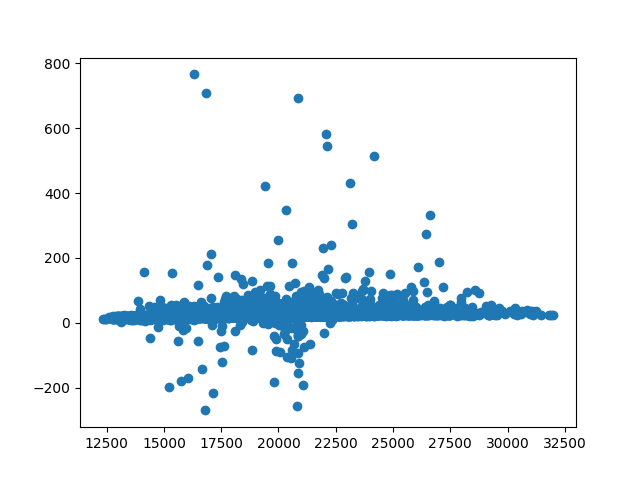
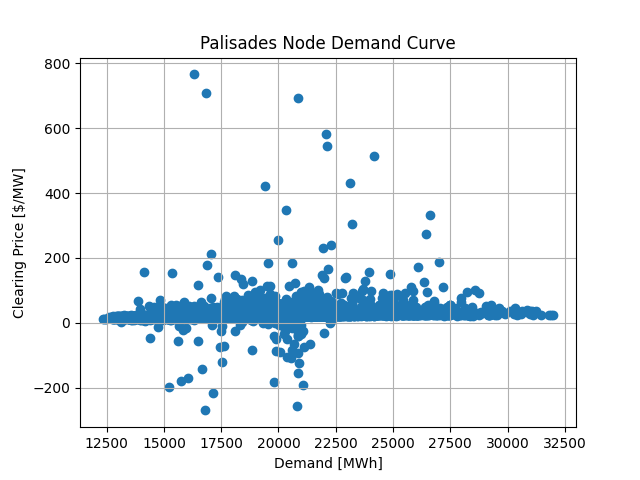
making load duration curve

diff --git a/analysis.py b/analysis.py
@@ -17,15 +17,52 @@ print(demand[:,-1])
 print(demand[:,-1].shape)
 print(timeseries.shape)
 
+#demand = demand[:,-1]
+ave_price = np.array([])
+ave_demand = np.array([])
+for i in range(len(timeseries)):
+    ave = np.mean(timeseries[max(i-7,0):i])
+    ave_price = np.append(ave_price, ave)
+
+    ave = np.mean(demand[max(i-7,0):i])
+    ave_demand = np.append(ave_demand, ave)
+'''
+plt.scatter(ave_demand, ave_price)
+plt.grid()
+plt.xlabel('Demand [MWh]')
+plt.ylabel('Clearing Price [$/MW]')
+plt.title('7-day Rolling Average Pseudo-Michigan Hub Demand Curve')
+plt.savefig('rolling-ave-demand-curve.png')
+'''
 lmp = np.genfromtxt('data/lmp/lmp.csv', delimiter=',')
 nodelmp = np.array([])
 for row in lmp[:-1]:
     #print(row[0])
     nodelmp = np.append(nodelmp, row[4:])
 
+X, F = np.unique(list(reversed(sorted(demand[:,-1]))), return_index=True)
+#F = F/float(F.max())
+#ax = plt.gca()
+#ax.invert_xaxis()
+#print(list(reversed(sorted(demand[:,-1]))))
+plt.plot(F,X)
+plt.grid()
+plt.xlim(0,max(F))
+plt.ylim(0)
+plt.xlabel('Cumulative Hours at Load')
+plt.ylabel('Hourly Demand [MW]')
+plt.title('WI-MI Load Duration Curve')
+plt.savefig('load-curve.png')
+
+'''
 print(nodelmp.shape)
 plt.scatter(demand[:,-1],nodelmp)
+plt.grid()
+plt.xlabel('Demand [MWh]')
+plt.ylabel('Clearing Price [$/MW]')
+plt.title('Palisades Node Demand Curve')
 plt.savefig('node-demand-curve.png')
+'''
 '''
 plt.scatter(demand[:,-1], timeseries)
 plt.grid()
